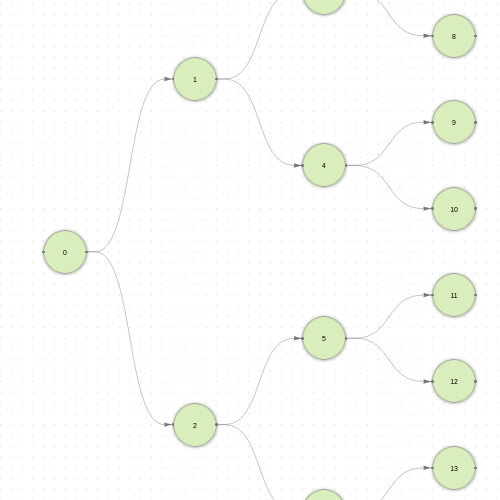
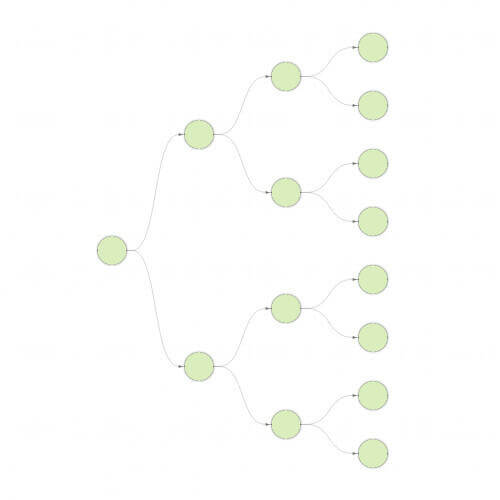
wip

diff --git a/static/use-cases/hierarchical-layout/index.html b/static/use-cases/hierarchical-layout/index.html
@@ -106,7 +106,6 @@
           graphData.nodes.forEach((nodeId) => {
             this.canvas.addNode(
               this.createNode({
-                name: `${nodeId}`,
                 frontPortId: `${nodeId}-in`,
                 backPortId: `${nodeId}-out`,
               })
@@ -120,19 +119,16 @@
           this.canvas.focus();
         }
 
-        createNode({ name, x, y, frontPortId, backPortId }) {
+        createNode({ x, y, frontPortId, backPortId }) {
           const node = document.createElement("div");
-          const text = document.createElement("div");
           const frontPort = document.createElement("div");
           const backPort = document.createElement("div");
 
           node.classList.add("node");
           frontPort.classList.add("node-port");
           backPort.classList.add("node-port");
-          text.innerText = name;
 
           node.appendChild(frontPort);
-          node.appendChild(text);
           node.appendChild(backPort);
 
           return {
